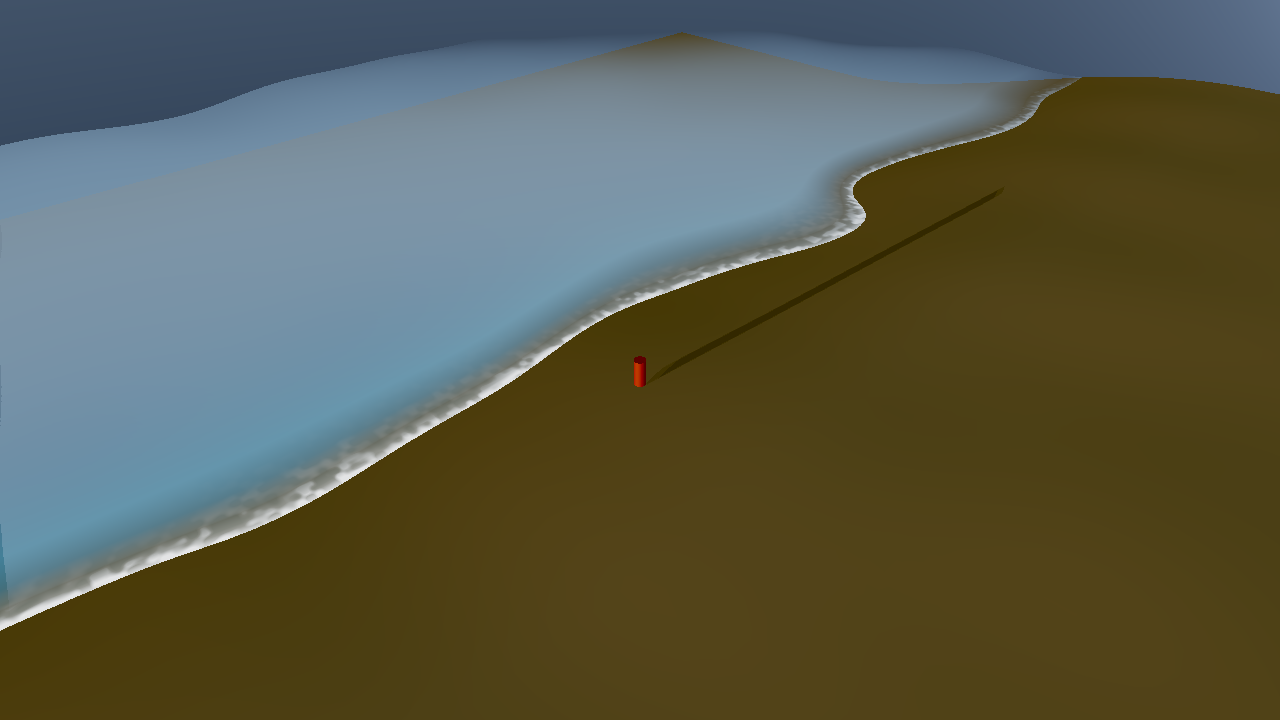
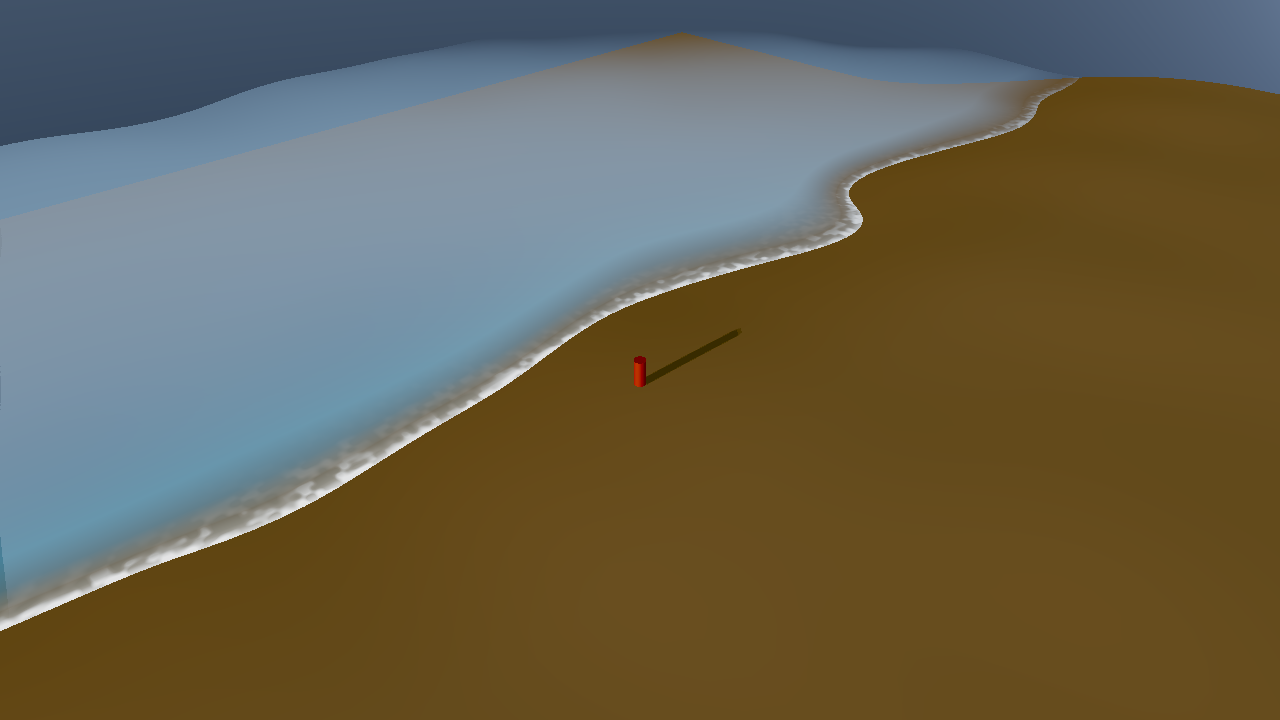
fix(p9): clamp low-sun light elevation and fade long shadows

diff --git a/Assets/Game/Time/TimeOfDaySystem.cs b/Assets/Game/Time/TimeOfDaySystem.cs
@@ -121,9 +121,18 @@ namespace Fengling.Time
             float moonFactor = Mathf.SmoothStep(0f, 1f, Mathf.InverseLerp(-0.08f, 0.18f, moonAlt)) * (1f - dayFactor);
             Vector3 moonDir = new Vector3(-sunDir.x, -sunDir.y, -sunDir.z).normalized;
 
+            // 天空太阳保持真实高度；光照/阴影方向限制最低仰角，避免黎明/黄昏影子无限长。
+            Vector3 lightDir = sunDir;
+            float minLightY = Mathf.Sin(12f * Mathf.Deg2Rad);
+            if (lightDir.y < minLightY)
+            {
+                lightDir.y = minLightY;
+                lightDir.Normalize();
+            }
+
             if (sun != null)
             {
-                sun.transform.rotation = Quaternion.LookRotation(-sunDir, Vector3.up);
+                sun.transform.rotation = Quaternion.LookRotation(-lightDir, Vector3.up);
                 sun.intensity = sunMaxIntensity * dayFactor;
                 sun.color = Color.Lerp(new Color(1f, 0.42f, 0.18f), new Color(1f, 0.95f, 0.86f),
                     Mathf.InverseLerp(0.02f, 0.45f, sunDir.y));
@@ -135,6 +144,10 @@ namespace Fengling.Time
                 moon.intensity = moonMaxIntensity * moonFactor;
                 moon.color = new Color(0.52f, 0.66f, 1f);
             }
+
+            // 低太阳时淡化阴影，避免一条拖到屏幕外的长矛。
+            Shader.SetGlobalFloat("_FenglingShadowStrength",
+                Mathf.SmoothStep(0f, 1f, Mathf.InverseLerp(0.03f, 0.24f, lightDir.y)));
 
             if (_skyInstance != null)
             {

diff --git a/Docs/Phase2昼夜执行记录_2026-11-20.md b/Docs/Phase2昼夜执行记录_2026-11-20.md
@@ -104,3 +104,45 @@
 
 后续需要单独调一套 dawn/dusk 曝光/色温曲线，不能只靠 ambient 提亮。
 
+---
+
+## 7. 影子长度修正（参考成熟项目）
+
+问题：
+
+- 6:00/18:00 太阳高度≈0，物理上影子长度趋近无限；
+- 线性 shadow map 会把这个“长矛”完整画出来，视觉不可接受。
+
+成熟项目做法：
+
+- 不直接使用物理太阳方向作为光照方向；
+- **给光照方向一个最低仰角**（常见 8–12°），天空太阳仍保留真实高度；
+- 低太阳时**淡化 shadow strength**；
+- 用 shadow distance/级联限制阴影范围；
+- 级联只解决清晰度，不解决长度。
+
+参考：
+
+- [Megacity day/night cycle](https://github.com/dzautner/megacity/blob/3e546d92d7fc83df51408e4f4c04b7de2416999f/crates/rendering/src/day_night.rs)
+- [Unity Shadow Cascades](https://docs.unity3d.com/es/2020.2/Manual/shadow-cascades.html)
+
+实现：
+
+- 光照/阴影方向最低仰角 **12°**；
+- 天空太阳盘仍用真实太阳方向；
+- `_FenglingShadowStrength` 在 `lightDir.y` 低时淡出；
+- `FenglingLit` 用 `lerp(1, shadow, strength)`。
+
+结果：
+
+- 18:00 长矛消失，变成约 8–10m 的正常长影；
+- 6:00 阴影被淡出，接近无影；
+- 12:00 短影不变；
+- 阴影距离仍 80m。
+
+代价：
+
+- 6:00 阴影太淡，需要继续调 fade 曲线或给角色补 contact/blob shadow；
+- 这仍然是单级阴影，4 级级联另做。
+
+
